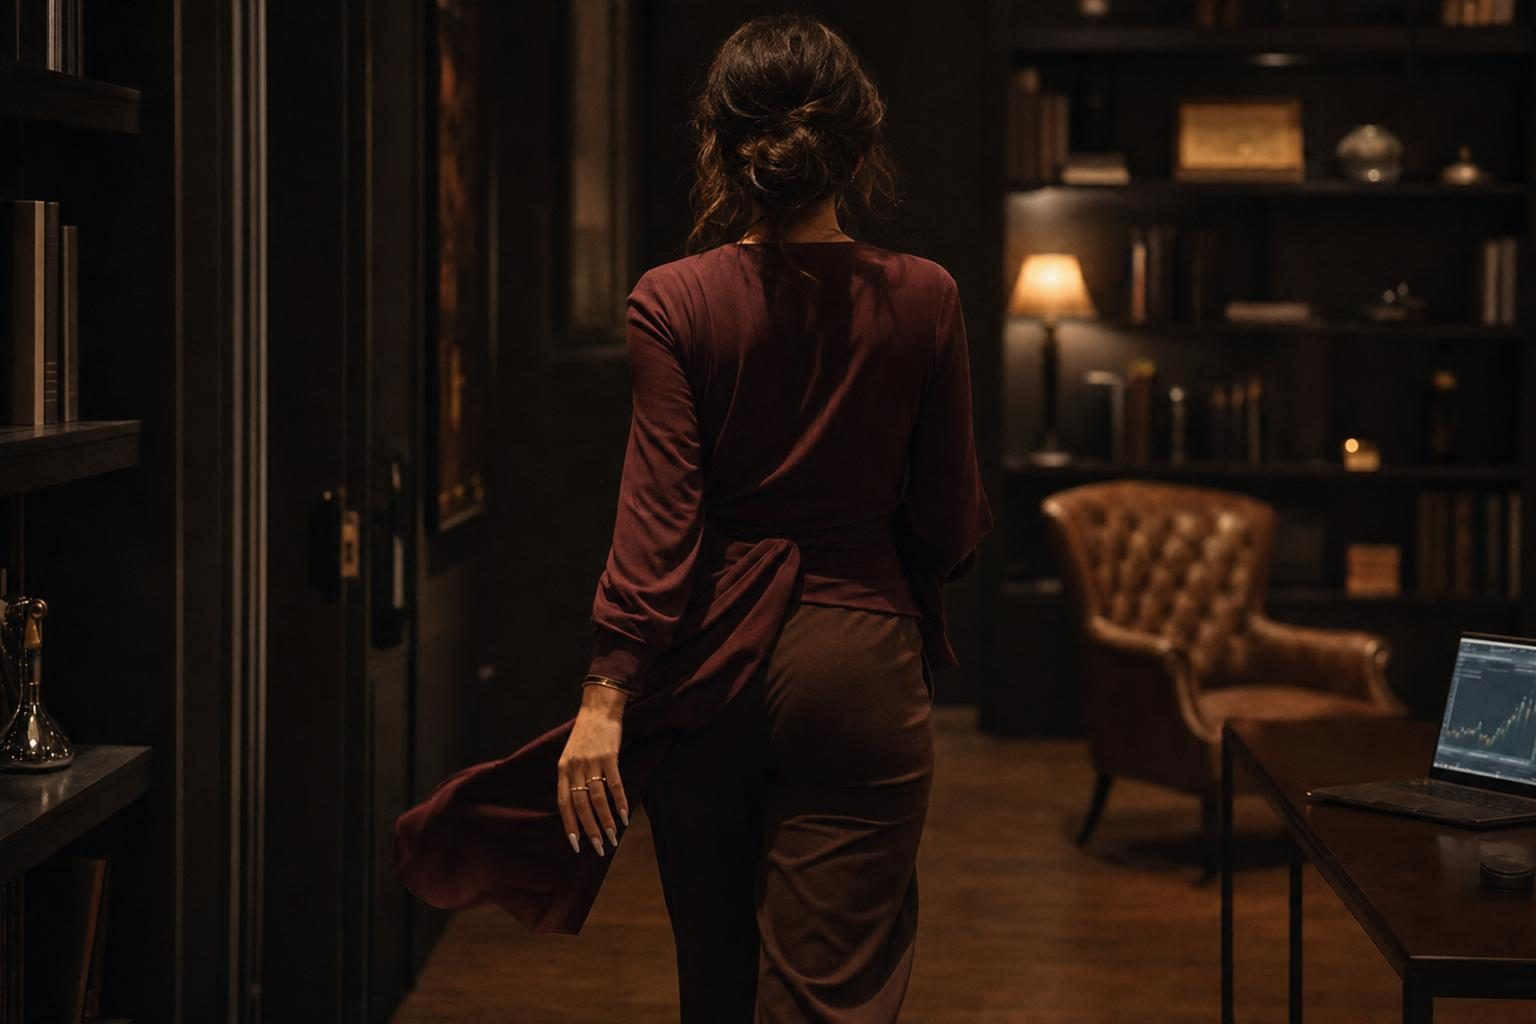
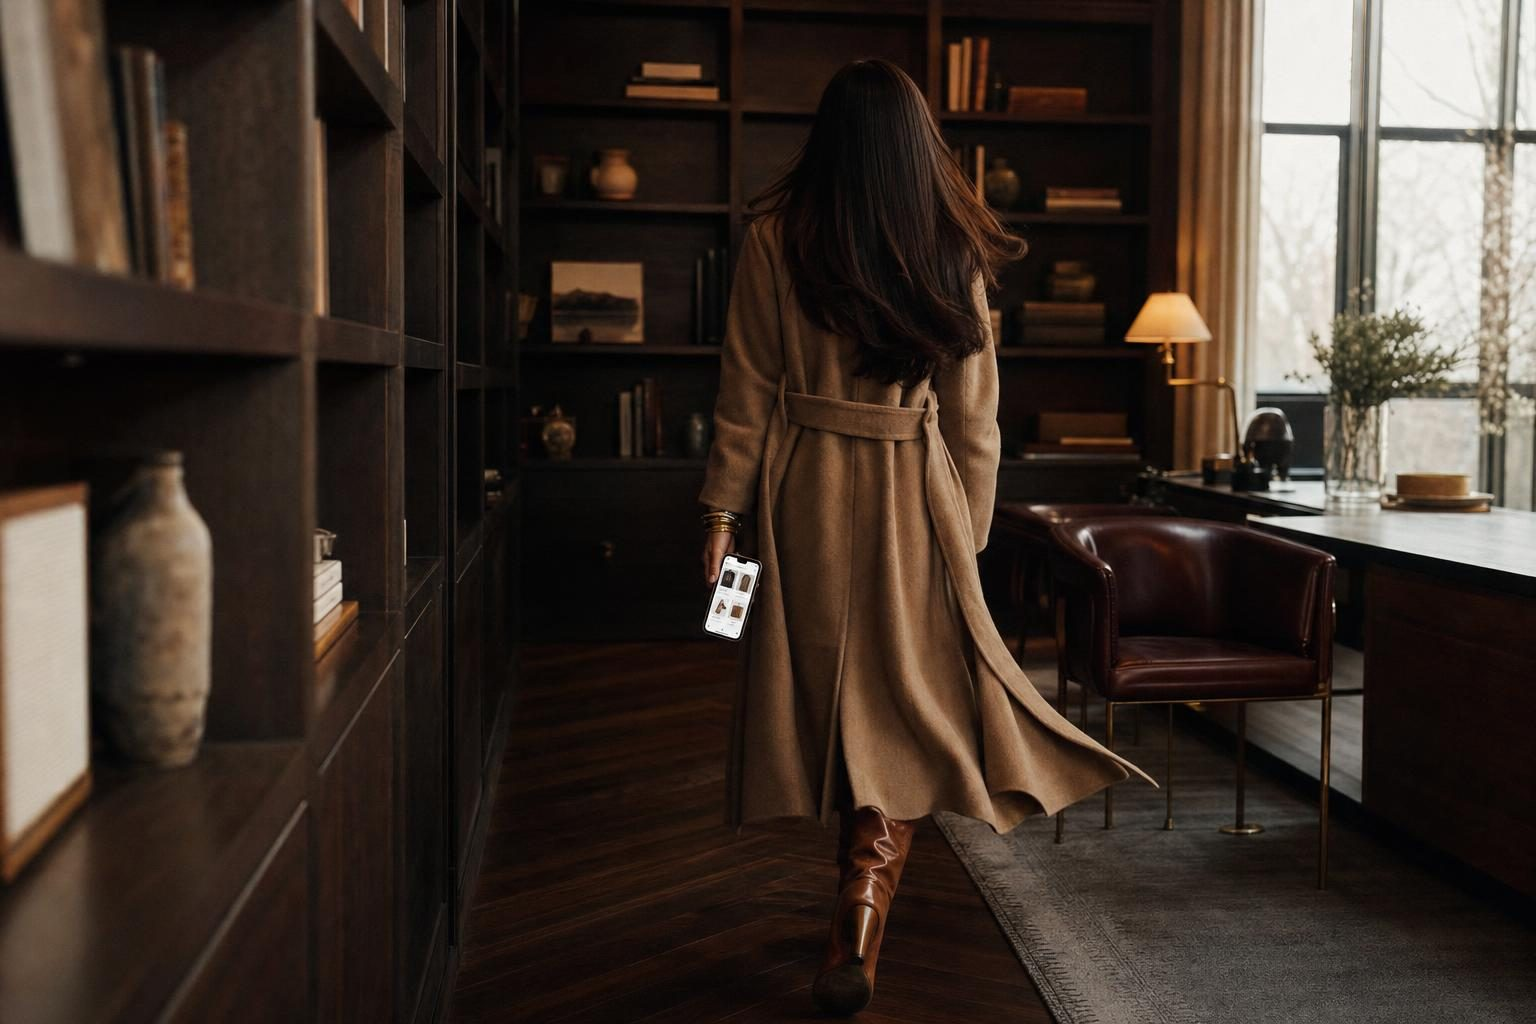
Fix irrelevant/too-dark cover images: require topical anchor + brightness floor
Jane flagged best-ecommerce-website-design's covers 1 and 3 as disconnected
from the post topic and too dark. Real cause: the composition/environment
variety fix from earlier this session forced genuine variety in pose and
setting, but never required the result to actually relate to the post
topic or stay adequately lit - "Walking away" + "dark moody office with a
single amber lamp as the ONLY light source" produced exactly that.

Fixed two ways:
- Softened the darkest _ENVIRONMENTS entries (dark office, evening/dusk
  ones) to always pair warm lighting with genuine daylight/ambient light.
- Added two non-negotiable rules to the Prompt 1/3 generation call: a
  topical anchor (phone/tablet/object visibly connected to the post) must
  appear regardless of which composition was assigned, and a brightness
  floor forbidding single-dim-light-source scenes.

Regenerated covers 1 and 3 for this post (kept cover 2, already approved).
Both now show a real Shopify-relevant screen and are properly lit -
verified visually.

diff --git a/posts/best-ecommerce-website-design.html b/posts/best-ecommerce-website-design.html
@@ -233,40 +233,56 @@
 <div class="image-prompts">
 <div class="image-prompts-title">Cover image prompts (OpenAI)</div>
 PROMPT 1 - GENERAL LIFESTYLE:
-A beautiful woman with thick, voluminous dark brown hair in a loose low bun with face-framing pieces falling out, walking away from camera mid-stride through a dark moody office with floor-to-ceiling dark shelving filled with books and objects, a vintage leather chair visible to one side, warm amber lamp casting the only light source creating dramatic shadows. She wears a deep burgundy wrap top, the fabric catching movement as she walks, her long gel nails in sheer glazed finish visible at her side, thin stacked gold rings and a delicate gold cuff bracelet catching the amber light. No drink. The hem of her top and her hair move with her stride, creating candid editorial energy. Shot from full rear view, her figure moving through the moody architectural space, warm Kodak Portra 400 film grain, shallow depth of field with shelving softly blurred. No decorative signage or typography elsewhere in the scene. If a device screen is visible, it may show crisp, legible, realistic content — do not blur or obscure it. No distorted AI text, no garbled words. No bright colours, no gradients, no studio lighting, no stock photography look, no digital sharpening. Landscape 16:9, high resolution.
+Woman walking away through a moody office with floor-to-ceiling dark wood shelving lined with books and objects, warm amber desk lamp glowing in the corner combined with soft natural light streaming through a large window on the right side keeping the entire space clearly visible. She strides mid-step toward the far end of the room, her camel oversized belted coat hem swaying with movement, long glossy dark brown hair straight with subtle blowout volume catching the mixed light. Her left hand holds an iPhone loosely at her side, screen visible showing a sleek ecommerce product grid layout with clean white backgrounds and organized thumbnails. Deep burgundy leather chair visible beside a walnut desk, thin gold bangles on her wrist catching light. Shot from behind, full figure, candid editorial energy. Kodak Portra 400 film grain, warm colour grading, shallow depth of field with foreground shelving edge softly blurred. No decorative signage or typography elsewhere in the scene. If a device screen is visible, it may show crisp, legible, realistic content — do not blur or obscure it. No distorted AI text, no garbled words. No bright colours, no gradients, no studio lighting, no stock photography look, no digital sharpening. Landscape 16:9, high resolution.
+
+Composition: Walking away — full rear view mid-stride through a beautiful space, coat hem or hair moving
+Environment: Moody office with floor-to-ceiling dark shelving, leather chair, warm amber lamp plus soft window light
+Outfit: Camel oversized belted coat (bold)
+Drink: None
 
 PROMPT 2 - TOPIC SPECIFIC (props/objects):
-Side-lit arrangement on a weathered wooden ledge against an exposed brick wall in a modern co-working space, warm Edison pendant bulbs glowing overhead, exposed ceiling beams visible above. An Apple iPhone 15 Pro in natural titanium rests angled on the ledge, screen lit and showing a crisp, legible Shopify mobile storefront — clean product grid with clear "Add to Cart" buttons, product images visible, price points readable, the kind of simple ecommerce layout that converts. Beside it, a bouquet of white peonies in a fluted glass vase catches the warm directional light from the Edison bulbs, soft shadows stretching across the wooden surface. No other tech devices. The warm industrial space contrasts with the clean digital interface on screen. Kodak Portra 400 warm tones, visible film grain, natural light from a side window mixing with the Edison glow. No distorted AI text, no garbled words, no bright colours, no gradients, no studio lighting. Landscape 16:9, high resolution.
+Apple iPhone 15 Pro in natural titanium resting on a narrow floating wooden shelf in a modern co-working space, screen lit and displaying a crisp, legible Shopify product page with clean product grid, white backgrounds, visible "Add to Cart" button, and clear pricing — realistic ecommerce interface fully readable. Warm Edison pendant bulbs hang above casting directional side light across the scene, exposed ceiling beams visible, weathered brick wall behind. A fluted glass vase with fresh white peonies sits beside the phone, petals catching warm light. Aged wood grain texture visible on shelf surface. Shot from slight angle, objects catching strong directional light from the left. Kodak Portra 400 warm tones, visible film grain, shallow depth of field with brick wall softly blurred. No person in frame. No decorative signage or typography elsewhere in the scene. No distorted AI text, no garbled words, no bright colours, no gradients, no studio lighting. Landscape 16:9, high resolution.
+
+Composition: Side-lit arrangement on a low shelf or ledge, objects catching directional light
+Environment: Modern co-working space with exposed ceiling beams, warm Edison pendants, brick wall
 
 PROMPT 3 - TOPIC SPECIFIC (person + action):
-Wide shot of a rooftop café bar at golden hour, a beautiful woman very small in the grand environment, standing near the railing looking out at a blurred city skyline bathed in warm orange-pink light. She has long glossy dark brown hair straight with subtle blowout volume, wearing an oversized cream cashmere knit that catches the golden light. The architecture dominates — elegant glassware on nearby tables catching sunset reflections, string lights beginning to glow, terracotta planters with greenery, the vast sky and cityscape filling most of the frame. Her long gel nails in soft pink are barely visible at her side, layered delicate gold necklaces catching light at her neckline. A glass of rosé with condensation sits on a nearby table, untouched. She is captured in contemplative pause, no task, just presence in the beautiful space. Shot from distance, woman small against the grand rooftop scene, back angled to camera, warm Kodak Portra 400 colour grading, soft focus on background city. No decorative signage or typography elsewhere in the scene. If a device screen is visible, it may show crisp, legible, realistic content — do not blur or obscure it. No distorted AI text, no garbled words. No bright colours, no gradients, no studio lighting, no stock photography look, no digital sharpening. Landscape 16:9, high resolution.
+Wide shot of a rooftop café bar at golden hour, city skyline stretching behind in soft focus with warm orange and amber light flooding the scene. A woman sits small in the frame at a rattan chair near the edge, her back to camera, thick voluminous dark brown hair in a loose low bun with face-framing pieces falling out. She wears an oversized cream cashmere knit, long nude gel nails visible resting on the table near a crystal champagne flute and an elegant tablet propped on a small stand showing a clean, crisp Shopify homepage with visible navigation menu and hero product image — legible and realistic. Thin gold chain necklace catches the light. The architecture of the rooftop terrace and city view dominates the frame, woman occupies perhaps one-fifth of the composition. Warm golden hour sunlight keeping entire scene bright and clearly visible. Kodak Portra 400, film grain, soft focus on background skyline. No decorative signage or typography elsewhere in the scene. If a device screen is visible, it may show crisp, legible, realistic content — do not blur or obscure it. No distorted AI text, no garbled words. No bright colours, no gradients, no studio lighting, no stock photography look, no digital sharpening. Landscape 16:9, high resolution.
+
+Composition: Wide shot — woman very small in grand environment, architecture is the subject
+Environment: Rooftop café bar, city view behind, warm golden hour
+Outfit: Oversized cream cashmere knit (neutral)
+Drink: Champagne in crystal flute
+Single woman, not group
 
 PROMPT 4 - TOPIC FOCUS:
-Concept chosen: Post about a digital platform/tool — showing an iMac with relevant ecommerce interface, as this post is specifically about Shopify store design and what makes ecommerce websites convert.
+Large 27-inch iMac on a clean white marble desk displaying a full Shopify ecommerce storefront — the screen shows a crisp, legible product collection page with multiple products in a grid, visible pricing, clear "Shop Now" buttons, clean navigation bar at top, and a minimalist aesthetic with plenty of white space. The interface looks like a real professional Shopify theme with readable product titles and realistic layout. Beside the iMac sits a small stack of neutral-toned hardcover books and a single dried eucalyptus stem in a slim ceramic vase. Morning light floods in from a large window to the left, casting soft shadows across the desk surface. Minimal home office setting, white walls, one small potted fiddle-leaf fig visible in the corner. The iMac screen is the hero — sharp, readable, realistic ecommerce UI with no blurred or obscured text. Kodak Portra 400 warm tones, visible film grain, shallow depth of field on background elements. No decorative signage or typography elsewhere in the scene. If a device screen is visible, it may show crisp, legible, realistic content — do not blur or obscure it. No distorted AI text, no garbled words. No bright colours, no gradients, no studio lighting. Landscape 16:9, high resolution.
 
-A large iMac on a styled walnut desk in a bright home office with white walls and a large arched window casting natural morning light. The iMac screen displays a crisp, legible Shopify store homepage — clean hero section with a bestselling product featured prominently, obvious "Shop Now" button, simple navigation bar with clear category labels, trust badges visible near the product, the exact kind of conversion-focused layout the post describes. The screen content is sharp and readable, showing real ecommerce design elements. On the desk: a small gold tray holding a thin gold ring, an open linen-covered notebook with a fine-tip pen, and a single long-stem white orchid in a minimal ceramic vase. Soft morning shadows fall across the desk surface. Warm editorial aesthetic, Kodak Portra 400 colour grading, visible film grain, natural window light creating gentle directional shadows. No decorative signage or typography elsewhere in the scene. If a device screen is visible, it may show crisp, legible, realistic content — do not blur or obscure it. No distorted AI text, no garbled words. No bright colours, no gradients, no studio lighting. Landscape 16:9, high resolution.
+Concept type: Post about a digital platform/tool — iMac showing Shopify ecommerce interface as hero, directly illustrating the post topic of ecommerce website design and what makes Shopify stores convert.
 
 PROMPT 5 - PINTEREST PIN:
-Composition chosen: Woman from behind at a styled desk, shot from mid-distance, vertical crop filling a tall portrait frame.
+Portrait-format image of a woman standing at a tall desk from behind in a bright minimalist home office, shot from mid-distance to fill a vertical frame. She faces a large monitor showing a clean Shopify product page layout — crisp, legible, with visible product grid and navigation. Long rich brown hair loosely tucked behind one ear falls past her shoulders, voluminous and healthy-looking. She wears a crisp white linen shirt open at the collar, thin stacked gold rings visible on her hand resting on the desk edge, long sheer glazed nails catching the light. Morning sunlight floods through a floor-to-ceiling window on the right, illuminating the entire scene evenly. White walls, minimal décor — a small potted monstera on a stand visible in the lower background. The bottom third of the frame shows the clean desk surface and her lower back, relatively clear for text overlay. Top two thirds carry visual weight — her silhouette, the screen, the bright window. Kodak Portra 400, warm tones, film grain, shallow depth of field. No text, no words, no writing, no labels, no readable typography anywhere in the image. No distorted AI text. No bright colours, no gradients, no studio lighting. Portrait 9:16, high resolution.
 
-A beautiful woman with long rich brown hair loosely tucked behind one ear, voluminous and healthy-looking, seated at a minimalist white desk viewed from behind in vertical portrait framing. She wears a pale grey ribbed turtleneck. Before her, an open MacBook shows a Shopify dashboard with clean product listings and conversion metrics — crisp and legible. Her long gel nails in white French tip rest on the keyboard, chunky gold chain bracelet visible on her wrist. The setting is a glass-walled penthouse office, city blurred behind full-height windows, clean modern desk surface with just the laptop and a small amber glass perfume bottle with gold cap. The vertical frame captures her full seated figure with the bright window above and the desk below, bottom third of image relatively clear with soft desk surface for text overlay. Morning light floods in from behind creating subtle rim light on her hair edges. Warm Kodak Portra 400 tones, film grain visible, shallow depth of field with city softly blurred. No text, no words, no writing, no labels, no readable typography anywhere in the image. No distorted AI text. No bright colours, no gradients, no studio lighting. Portrait 9:16, high resolution.
+Composition: Woman from behind at a styled desk, shot from mid-distance, vertical crop — strong vertical lines from window and monitor frame the figure, bottom third clear for text overlay.
 
 PROMPT 6 - INFOGRAPHIC:
-Layout chosen: Serpentine flow curve — representing the customer journey from landing to checkout, matching the post's focus on the path visitors take through a converting Shopify store.
+Layout: Vertical spine — suits the hierarchical, prioritized nature of ecommerce design principles flowing from most to least critical.
 
-Warm cream background #F8F5F2. A gentle serpentine curve flows from top-left to bottom-right, the path rendered in chocolate brown #8D6E63 as a thin elegant line with small circular nodes at each point. Along the curve, five key conversion stages appear:
+Warm cream background #F8F5F2. A single thin vertical line in muted sand #A5988E runs down the center of the composition. Five chocolate brown #8D6E63 circular nodes are evenly spaced along the line from top to bottom.
 
-Node 1 (top-left): "01" in Montserrat Regular small caps warm taupe #BBB0AA. Heading in Noto Serif Display Light near-black #262427: "*Above* the fold clarity" with supporting text below in Montserrat Regular lowercase warm taupe: "show products within 3 seconds"
+At the top, centered above the line, in Noto Serif Display Light near-black #262427: "*Best* ecommerce design" — first word italic, rest lowercase.
 
-Node 2 (curves right): "02" in warm taupe. Heading: "*Navigation* that speaks customer language" with supporting text: "two clicks to any product"
+Branching alternately left and right from each node:
 
-Node 3 (curves left): "03" in warm taupe. Heading: "*Product* pages that answer questions" with supporting text: "photos, price, trust signals visible"
+Node 1 (right): "01" in Montserrat Regular small caps warm taupe #BBB0AA, below it "mobile-first layouts" in Montserrat Regular lowercase warm taupe.
 
-Node 4 (curves right): "04" in warm taupe. Heading: "*Trust* near the buy button" with supporting text: "reviews, shipping info, guarantees"
+Node 2 (left): "02" in Montserrat Regular small caps warm taupe, below it "fast page load speed" in Montserrat Regular lowercase warm taupe.
 
-Node 5 (bottom-right): "05" in warm taupe. Heading: "*Checkout* under 60 seconds" with supporting text: "guest checkout, no hunting"
+Node 3 (right): "03" in Montserrat Regular small caps warm taupe, below it "consistent product photography" in Montserrat Regular lowercase warm taupe.
 
-Thin muted sand #A5988E hairlines connect nodes along the serpentine path. Generous whitespace between all elements. Small decorative dot clusters in chocolate brown accent the curves. Typography is thin and elegant throughout, never bold. Feels hand-designed and editorial, not generated. Landscape 16:9.
+Node 4 (left): "04" in Montserrat Regular small caps warm taupe, below it "trust signals at checkout" in Montserrat Regular lowercase warm taupe.
+
+Node 5 (right):
 </div>
 </div>
 </body>

diff --git a/agents/blog-seo-agent/blog_seo_agent.py b/agents/blog-seo-agent/blog_seo_agent.py
@@ -1359,9 +1359,9 @@ _ENVIRONMENTS = [
     "Bathroom vanity with travertine tiles, luxe products arranged neatly, soft diffused light",
     "Modern co-working space with exposed ceiling beams, warm Edison pendants, brick wall",
     "Minimalist photography studio, white curved cove backdrop, single beauty dish light from side",
-    "Boutique hotel suite sitting room, curved Art Deco armchair, dramatic drapes, evening lamp glow",
+    "Boutique hotel suite sitting room, curved Art Deco armchair, dramatic drapes, warm lamp glow blended with soft daylight from a nearby window",
     "Luxury brand showroom or concept store interior, editorial, objects on pedestals, gallery white walls",
-    "Dark moody office with floor-to-ceiling dark shelving, leather chair, warm amber lamp only light source",
+    "Moody office with floor-to-ceiling dark shelving, leather chair, warm amber lamp plus soft window light so the space still reads clearly",
     "Mid-century modern workspace, walnut desk, pendant Arco lamp, minimal and warm",
     "Glass-walled penthouse office, city blurred behind full-height windows, clean modern desk",
     "Rooftop terrace with city skyline, golden hour light, terracotta pots, olive tree in planter",
@@ -1370,11 +1370,11 @@ _ENVIRONMENTS = [
     "Lush garden, hedgerow blurred background, wrought iron table, very soft diffused light",
     "Beach-adjacent poolside at a luxury villa, sun lounger, blue water blurred behind, warm",
     "Verdant hotel garden terrace, rattan furniture, greenery everywhere, warm dappled shade",
-    "City rooftop at dusk, string lights beginning to glow, warm purple-orange sky behind",
+    "City rooftop at golden hour (not dusk), warm sunlit sky, string lights visible but not yet the light source",
     "Sleek all-white café with marble counter, minimalist pendant, single flower stem in vase",
     "Parisian café with mirrored walls, rattan chairs, marble bistro table, warm afternoon light",
     "Japanese-inspired café with pale timber, ceramic objects, stone surfaces, calm zen aesthetic",
-    "Luxury hotel lobby bar, dramatic high ceilings, low leather seating, soft indirect lighting",
+    "Luxury hotel lobby bar, dramatic high ceilings, low leather seating, bright natural light from tall windows",
     "Rooftop café bar, city view behind, warm golden hour, elegant glassware on the table",
     "Coastal café, light wood, linen napkins, sea light, relaxed editorial feel",
 ]
@@ -1466,7 +1466,20 @@ def generate_image_prompts(keyword: str, post_html: str) -> str:
         f"Everything else — hair, outfit, drink, screen content, mood — is still yours to "
         f"choose freely, grounded in the actual post content. Follow the assigned activity "
         f"described within each composition exactly — do not substitute a laptop or add "
-        f"typing/desk work where the composition specifies something else."
+        f"typing/desk work where the composition specifies something else.\n\n"
+        f"TWO NON-NEGOTIABLE RULES FOR PROMPT 1 AND PROMPT 3, regardless of which composition "
+        f"was assigned above:\n"
+        f"1. TOPICAL ANCHOR — the scene must include at least one small, natural element that "
+        f"visibly connects to this specific post's topic: a phone/tablet screen showing "
+        f"something relevant, a printed page, a relevant product or object in hand or on a "
+        f"nearby surface. A composition like 'walking away' or 'wide shot' or 'staircase' can "
+        f"still include this — e.g. a phone held loosely in hand with a relevant screen visible, "
+        f"or a relevant object glimpsed on a table in frame. NEVER produce a pure mood/lifestyle "
+        f"shot with zero connection to the topic — that has happened before and is not allowed.\n"
+        f"2. BRIGHTNESS FLOOR — the scene must be clearly and evenly lit. A single warm lamp, "
+        f"dusk, or 'evening glow' as the only light source is too dark — confirmed unusable on a "
+        f"real generated cover. Combine any warm/moody lighting with genuine daylight or bright "
+        f"ambient light so the whole frame reads clearly, not just a small pool of light."
     )
 
     response = client.messages.create(
